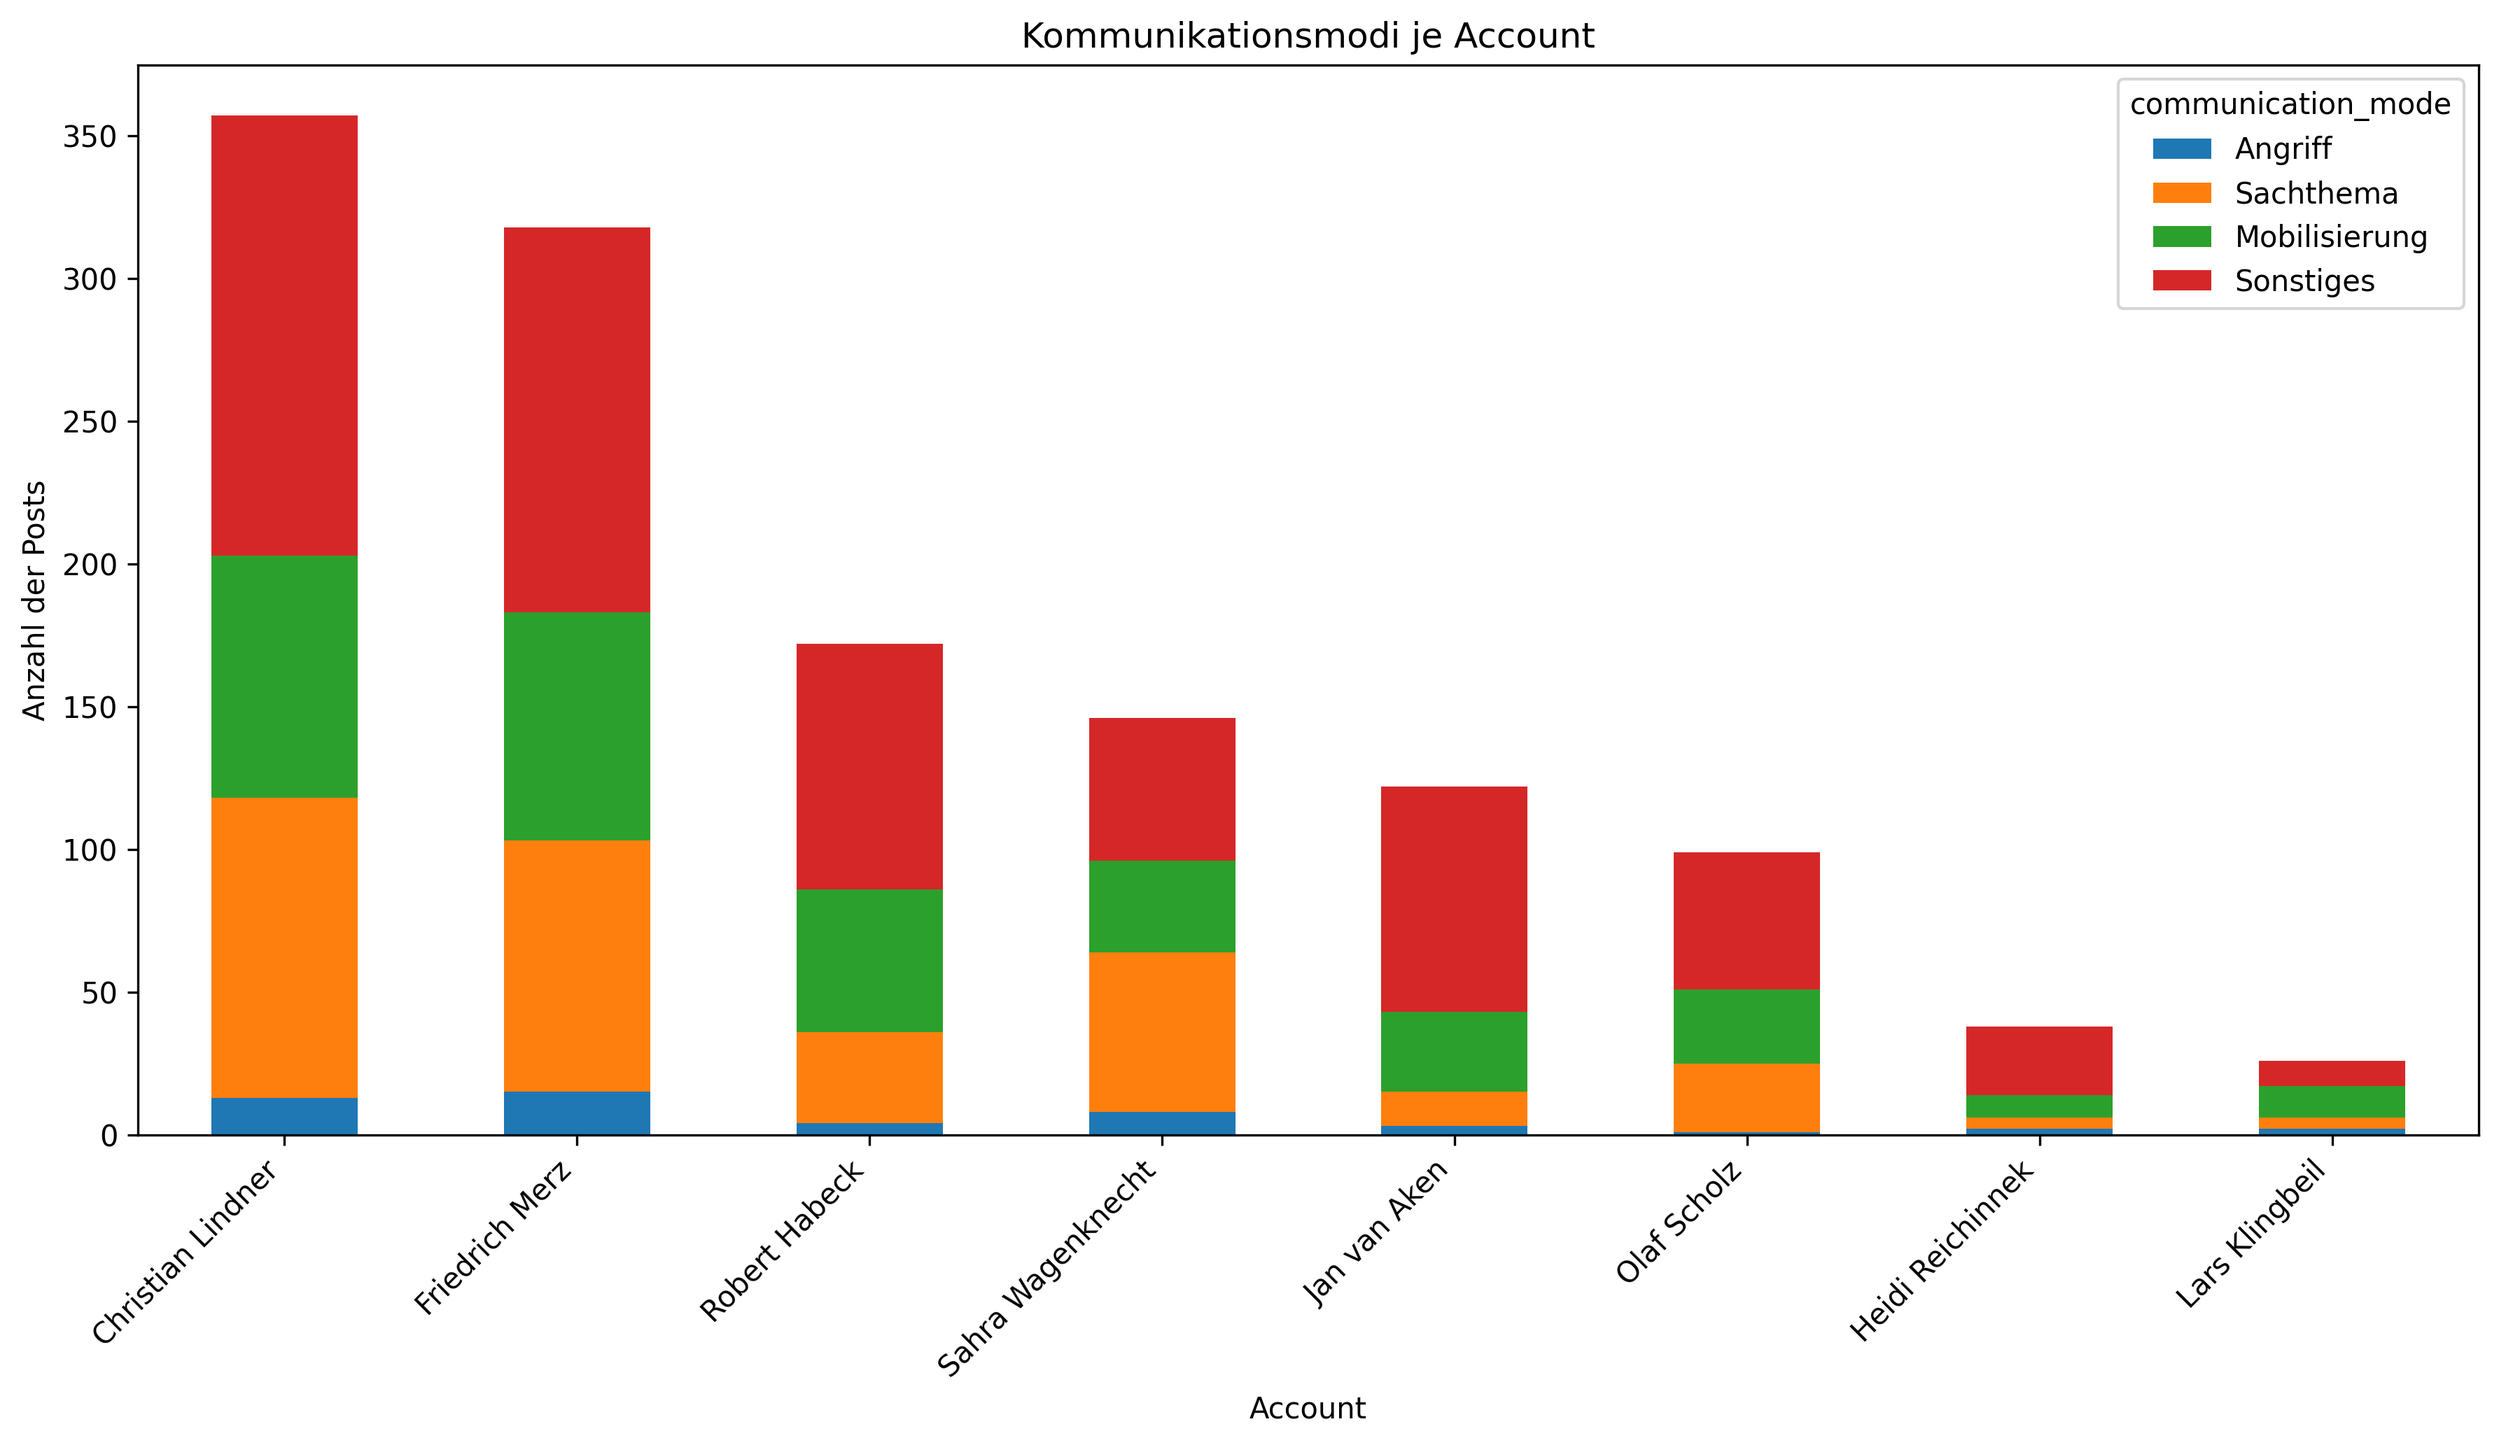
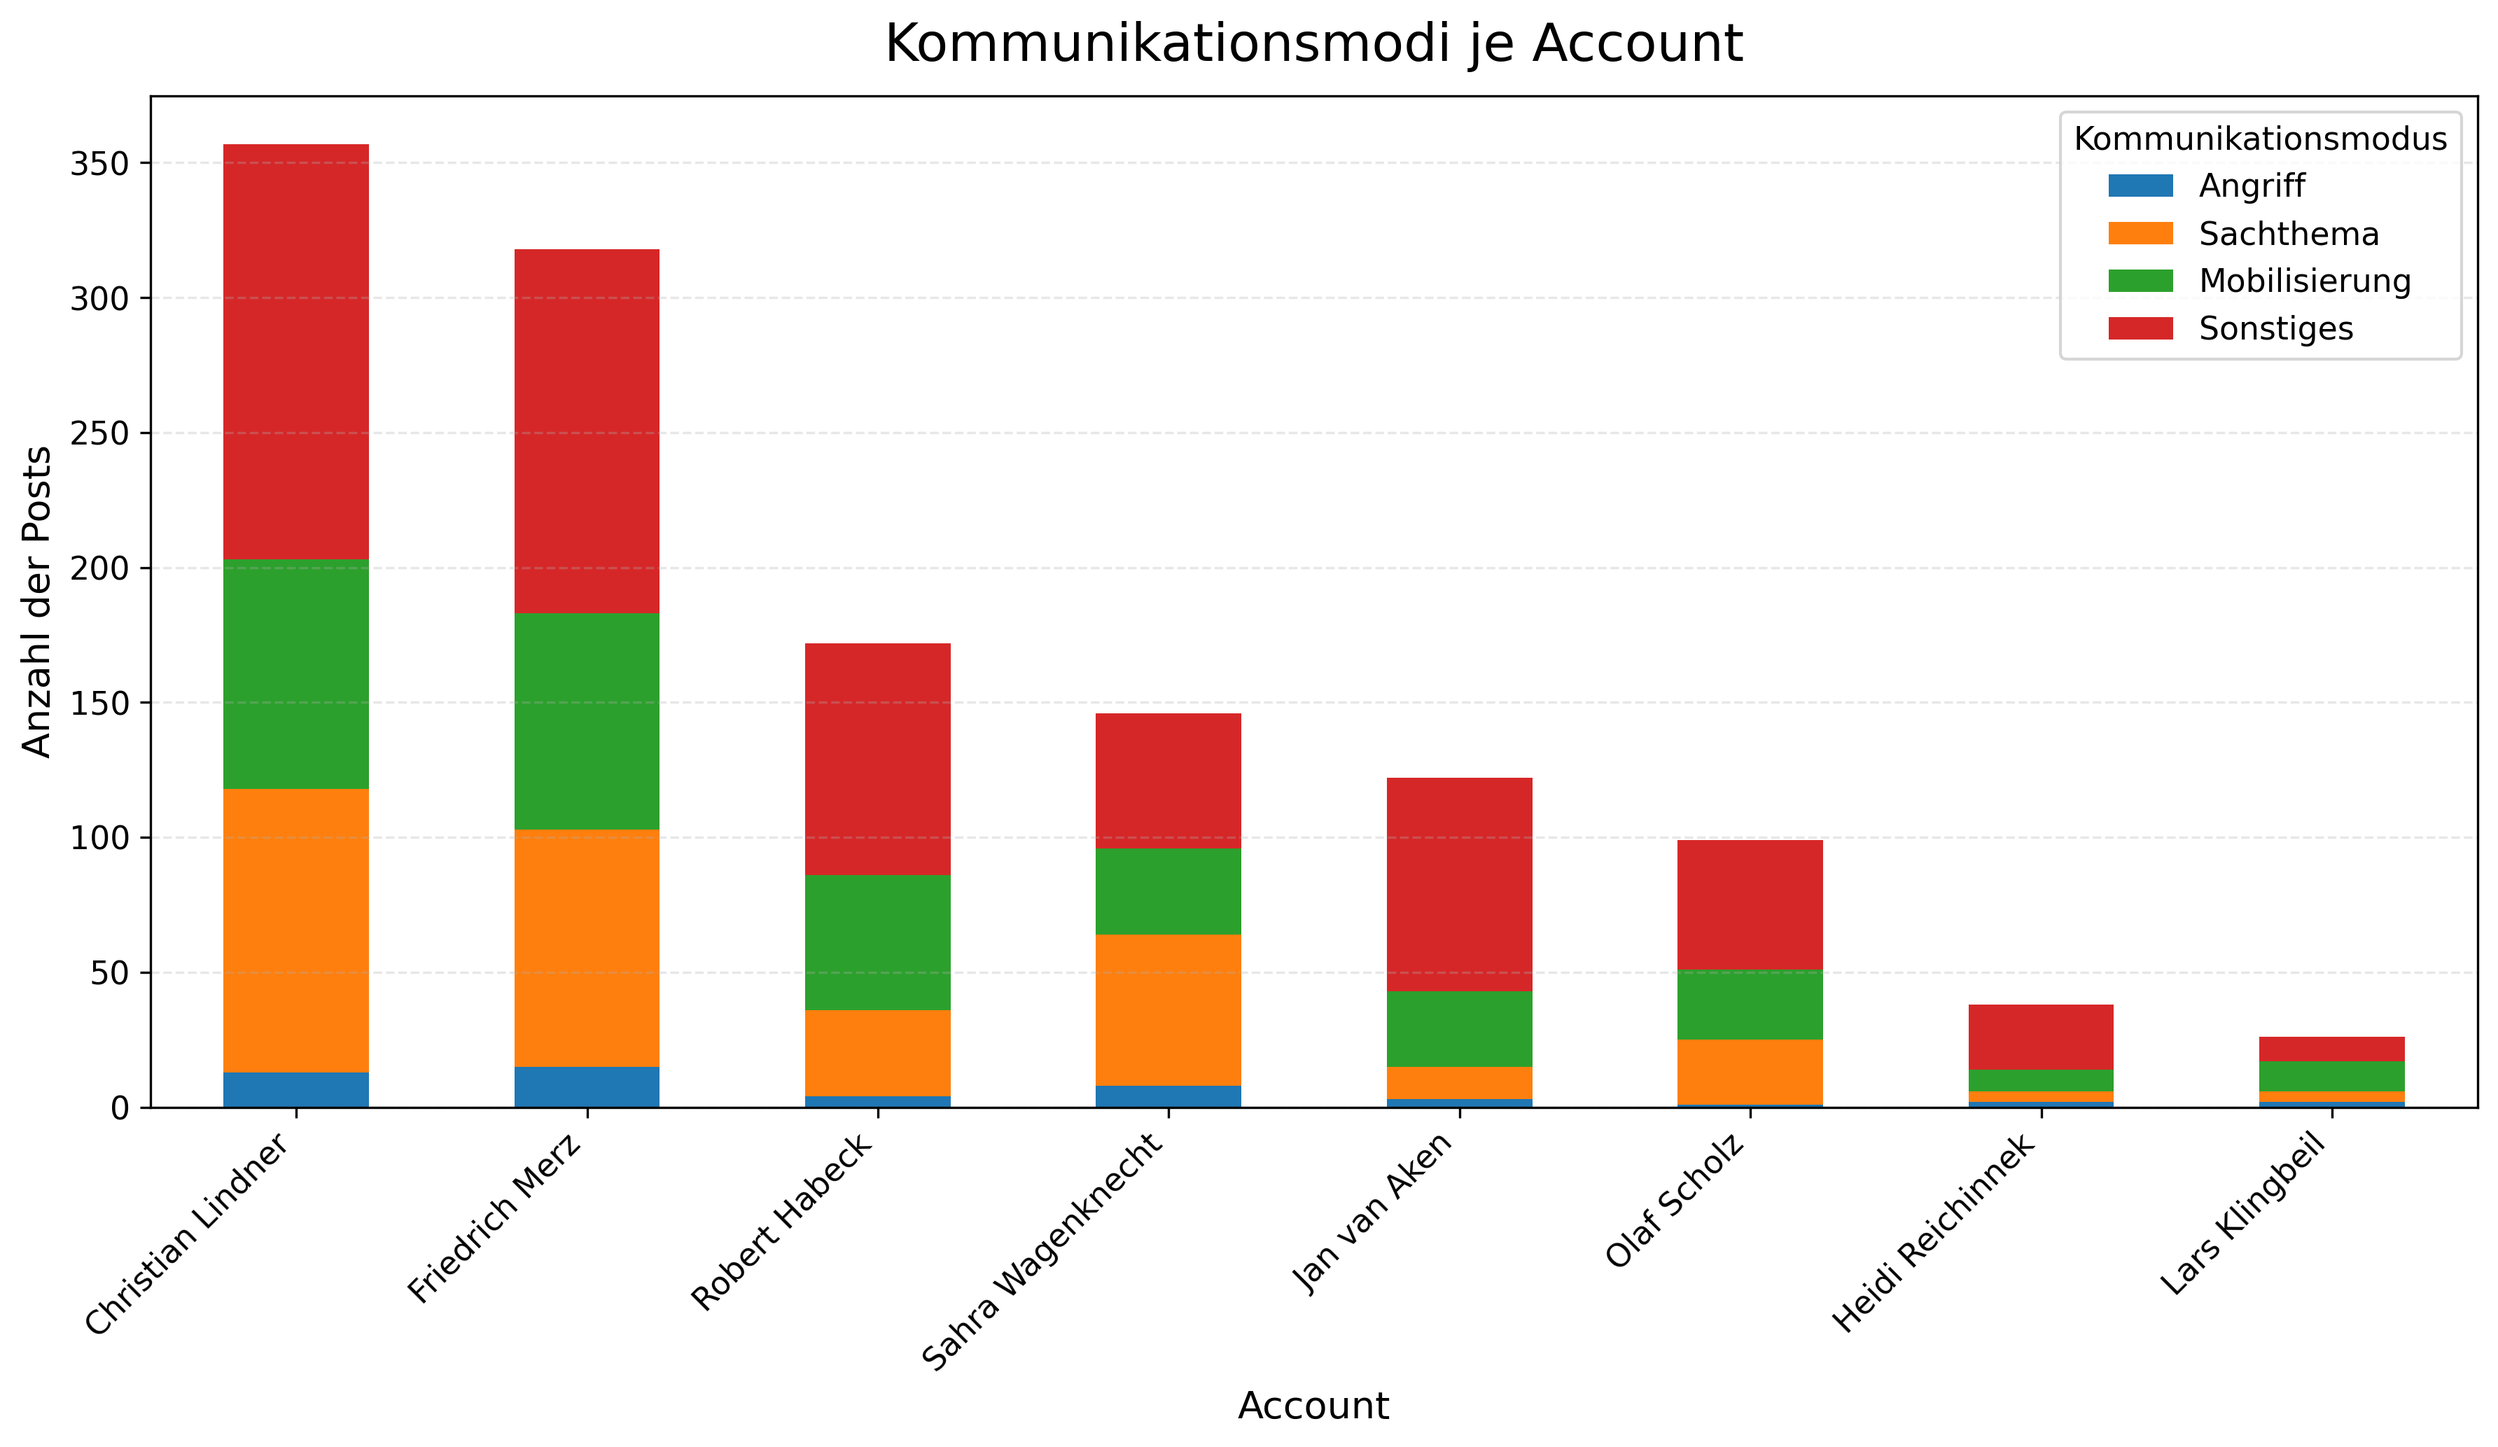
Improve communication mode visualizations for report

diff --git a/scripts/13_visualize_communication_mode.py b/scripts/13_visualize_communication_mode.py
@@ -4,7 +4,7 @@
 Erstellt Visualisierungen auf Basis der Kommunikationsmodus-Analyse.
 
 Ziele:
-- Verteilung der Kommunikationsmodi nach Phase darstellen
+- Verteilung der Kommunikationsmodi nach Phase als Prozentanteile darstellen
 - Verteilung der Kommunikationsmodi je Account darstellen
 
 Eingabedateien:
@@ -30,6 +30,18 @@ ACCOUNT_INPUT = INPUT_DIR / "communication_mode_by_account.csv"
 PHASE_OUTPUT = OUTPUT_DIR / "communication_mode_by_phase.png"
 ACCOUNT_OUTPUT = OUTPUT_DIR / "communication_mode_by_account.png"
 
+PREFERRED_MODE_ORDER = ["Angriff", "Sachthema", "Mobilisierung", "Sonstiges"]
+PHASE_ORDER = ["Phase A", "Phase B"]
+
+FIGSIZE_PHASE = (10, 6)
+FIGSIZE_ACCOUNT = (12, 7)
+DPI = 300
+
+TITLE_SIZE = 18
+LABEL_SIZE = 13
+TICK_SIZE = 11
+LEGEND_SIZE = 11
+
 
 def ensure_output_directory() -> None:
     """
@@ -47,9 +59,32 @@ def load_data() -> tuple[pd.DataFrame, pd.DataFrame]:
     return phase_df, account_df
 
 
+def reorder_columns(existing_columns: list[str]) -> list[str]:
+    """
+    Ordnet Kommunikationsmodi in fachlich gewünschter Reihenfolge.
+    """
+    return [col for col in PREFERRED_MODE_ORDER if col in existing_columns]
+
+
+def add_bar_labels(ax: plt.Axes, decimals: int = 1, suffix: str = "%") -> None:
+    """
+    Schreibt Werte oberhalb der Balken auf die Grafik.
+    """
+    for container in ax.containers:
+        labels = []
+        for bar in container:
+            height = bar.get_height()
+            if pd.isna(height):
+                labels.append("")
+            else:
+                labels.append(f"{height:.{decimals}f}{suffix}")
+        ax.bar_label(container, labels=labels, padding=3, fontsize=10)
+
+
 def plot_mode_by_phase(phase_df: pd.DataFrame) -> None:
     """
-    Erstellt eine Grafik der Kommunikationsmodi nach Phase.
+    Erstellt eine Grafik der Kommunikationsmodi nach Phase
+    auf Basis prozentualer Anteile innerhalb jeder Phase.
     """
     pivot_df = phase_df.pivot_table(
         index="phase",
@@ -58,23 +93,40 @@ def plot_mode_by_phase(phase_df: pd.DataFrame) -> None:
         fill_value=0
     ).copy()
 
-    preferred_order = ["Angriff", "Sachthema", "Mobilisierung", "Sonstiges"]
-    existing_columns = [col for col in preferred_order if col in pivot_df.columns]
-    pivot_df = pivot_df[existing_columns]
+    for phase_name in PHASE_ORDER:
+        if phase_name not in pivot_df.index:
+            pivot_df.loc[phase_name] = 0
 
-    ax = pivot_df.plot(kind="bar", figsize=(10, 6))
-    ax.set_title("Kommunikationsmodi nach Phase")
-    ax.set_xlabel("Phase")
-    ax.set_ylabel("Anzahl der Posts")
-    plt.xticks(rotation=0)
+    pivot_df = pivot_df.loc[PHASE_ORDER]
+
+    ordered_columns = reorder_columns(pivot_df.columns.tolist())
+    pivot_df = pivot_df[ordered_columns]
+
+    phase_totals = pivot_df.sum(axis=1)
+    percentage_df = pivot_df.div(phase_totals.replace(0, pd.NA), axis=0) * 100
+    percentage_df = percentage_df.fillna(0)
+
+    ax = percentage_df.plot(kind="bar", figsize=FIGSIZE_PHASE)
+
+    ax.set_title("Kommunikationsmodi nach Phase", fontsize=TITLE_SIZE, pad=12)
+    ax.set_xlabel("Phase", fontsize=LABEL_SIZE)
+    ax.set_ylabel("Anteil an allen Posts in Prozent", fontsize=LABEL_SIZE)
+    ax.tick_params(axis="x", rotation=0, labelsize=TICK_SIZE)
+    ax.tick_params(axis="y", labelsize=TICK_SIZE)
+    ax.legend(title="Kommunikationsmodus", fontsize=LEGEND_SIZE, title_fontsize=LEGEND_SIZE)
+    ax.set_ylim(0, max(percentage_df.max().max() * 1.18, 10))
+    ax.grid(axis="y", linestyle="--", alpha=0.3)
+
+    add_bar_labels(ax, decimals=1, suffix="%")
+
     plt.tight_layout()
-    plt.savefig(PHASE_OUTPUT, dpi=300, bbox_inches="tight")
+    plt.savefig(PHASE_OUTPUT, dpi=DPI, bbox_inches="tight")
     plt.close()
 
 
 def plot_mode_by_account(account_df: pd.DataFrame) -> None:
     """
-    Erstellt eine Grafik der Kommunikationsmodi je Account.
+    Erstellt eine gestapelte Grafik der Kommunikationsmodi je Account.
     """
     pivot_df = account_df.pivot_table(
         index="account_name",
@@ -83,21 +135,26 @@ def plot_mode_by_account(account_df: pd.DataFrame) -> None:
         fill_value=0
     ).copy()
 
-    preferred_order = ["Angriff", "Sachthema", "Mobilisierung", "Sonstiges"]
-    existing_columns = [col for col in preferred_order if col in pivot_df.columns]
-    pivot_df = pivot_df[existing_columns]
+    ordered_columns = reorder_columns(pivot_df.columns.tolist())
+    pivot_df = pivot_df[ordered_columns]
 
     pivot_df["total_posts"] = pivot_df.sum(axis=1)
     pivot_df = pivot_df.sort_values("total_posts", ascending=False)
     pivot_df = pivot_df.drop(columns=["total_posts"])
 
-    ax = pivot_df.plot(kind="bar", stacked=True, figsize=(12, 7))
-    ax.set_title("Kommunikationsmodi je Account")
-    ax.set_xlabel("Account")
-    ax.set_ylabel("Anzahl der Posts")
-    plt.xticks(rotation=45, ha="right")
+    ax = pivot_df.plot(kind="bar", stacked=True, figsize=FIGSIZE_ACCOUNT)
+
+    ax.set_title("Kommunikationsmodi je Account", fontsize=TITLE_SIZE, pad=12)
+    ax.set_xlabel("Account", fontsize=LABEL_SIZE)
+    ax.set_ylabel("Anzahl der Posts", fontsize=LABEL_SIZE)
+    ax.tick_params(axis="x", rotation=45, labelsize=TICK_SIZE)
+    ax.tick_params(axis="y", labelsize=TICK_SIZE)
+    plt.xticks(ha="right")
+    ax.legend(title="Kommunikationsmodus", fontsize=LEGEND_SIZE, title_fontsize=LEGEND_SIZE)
+    ax.grid(axis="y", linestyle="--", alpha=0.3)
+
     plt.tight_layout()
-    plt.savefig(ACCOUNT_OUTPUT, dpi=300, bbox_inches="tight")
+    plt.savefig(ACCOUNT_OUTPUT, dpi=DPI, bbox_inches="tight")
     plt.close()
 
 
